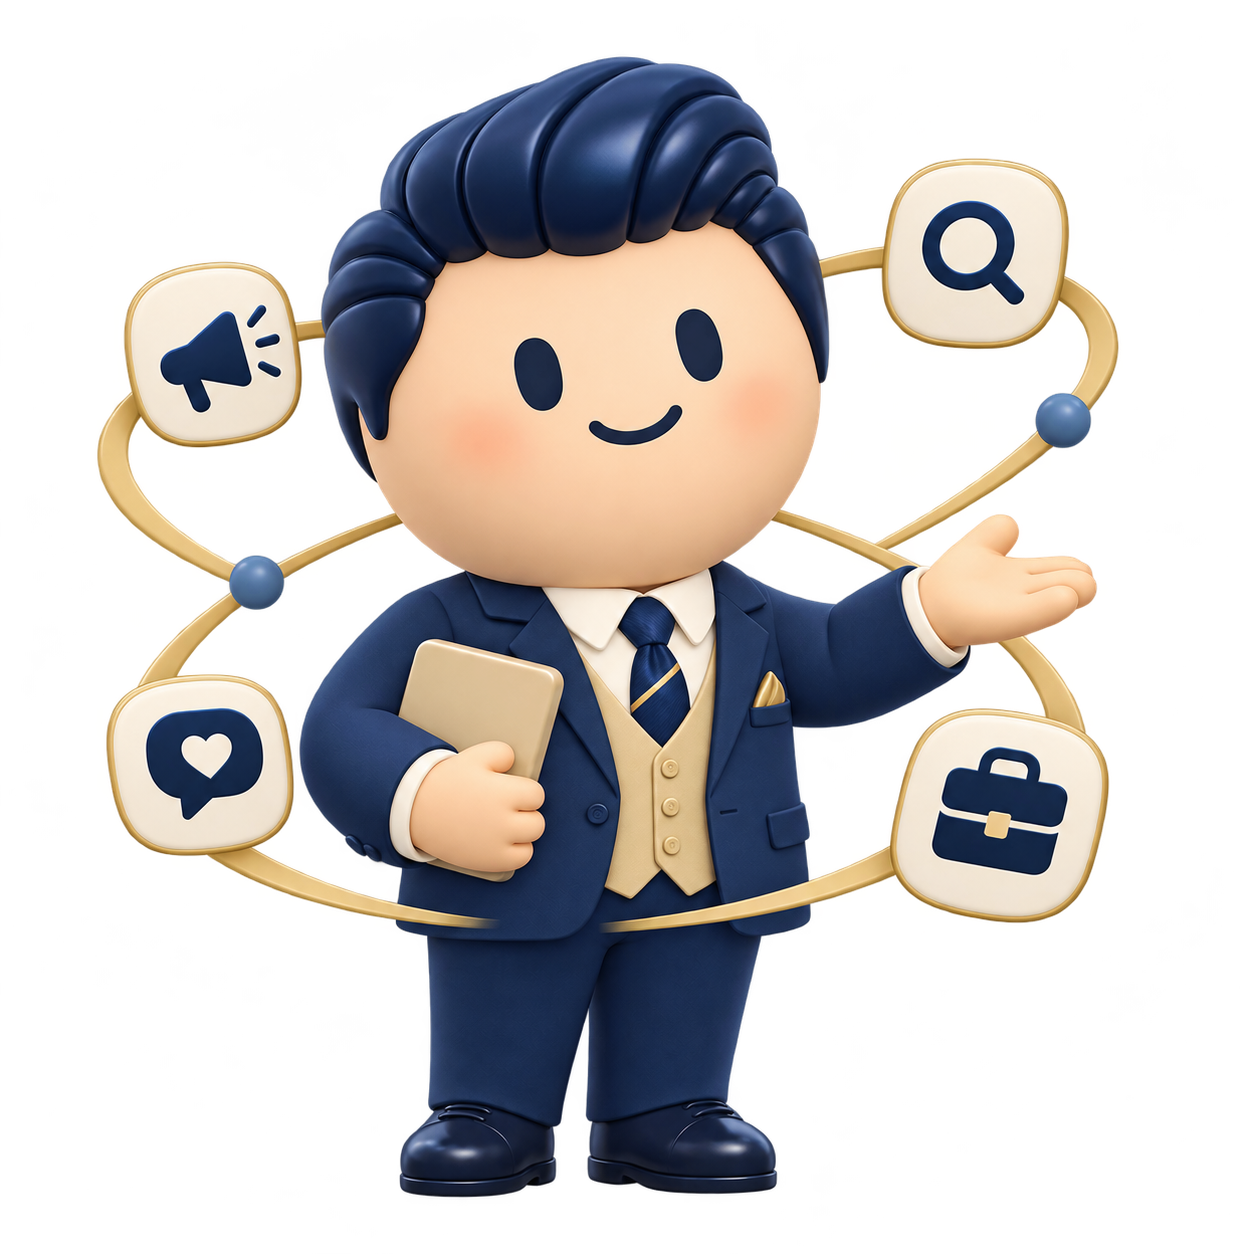
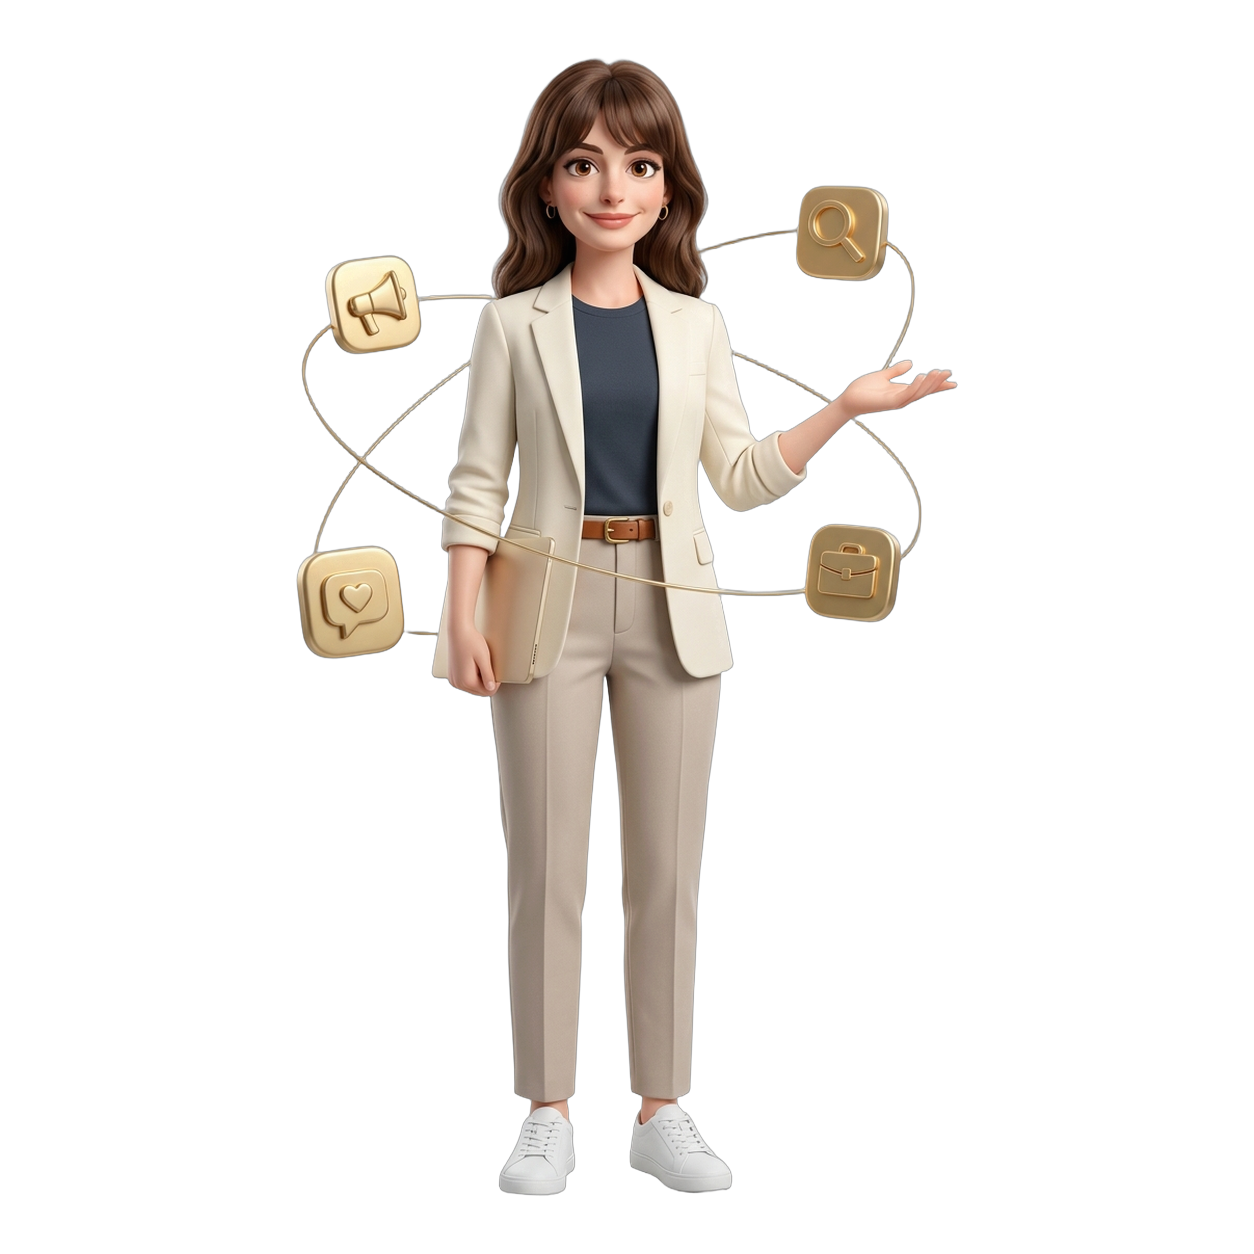
Update DANI mascot and world infographic to V2 smart-casual female persona

diff --git a/index.html b/index.html
@@ -19,7 +19,7 @@
   <meta property="og:title" content="DNA AI 슈트 | 개인 비서를 입다">
   <meta property="og:description" content="검색·생성형 AI·SNS를 하나의 고객 유입 흐름으로 연결하는 AI 마케팅·브랜딩 파트너입니다.">
   <meta property="og:url" content="https://alexchoi21.github.io/">
-  <meta property="og:image" content="https://alexchoi21.github.io/dani-world-infographic.png">
+  <meta property="og:image" content="https://alexchoi21.github.io/dani-world-infographic.png?v=20261118">
   <meta property="og:image:width" content="1364">
   <meta property="og:image:height" content="768">
   <meta property="og:image:alt" content="DNA AI 슈트 세계관 — 개인 비서를 입다, AI 비서 다니">
@@ -27,7 +27,7 @@
   <meta name="twitter:card" content="summary_large_image">
   <meta name="twitter:title" content="DNA AI 슈트 | 개인 비서를 입다">
   <meta name="twitter:description" content="AI 마케팅 자동화, 네이버 상위노출·챗GPT 추천(SEO/GEO), 기업용 AI 보안, 맞춤형 AI 플랫폼 및 AI SaaS 서비스 구축">
-  <meta name="twitter:image" content="https://alexchoi21.github.io/dani-world-infographic.png">
+  <meta name="twitter:image" content="https://alexchoi21.github.io/dani-world-infographic.png?v=20261118">
 
   <link rel="icon" type="image/svg+xml" href="favicon.svg">
   <link rel="preconnect" href="https://fonts.googleapis.com">
@@ -228,7 +228,7 @@
       </div>
       <div class="hero-art dani-stage">
         <div class="art-caption">YOUR WORK, BETTER CARED FOR<br><strong>AI SECRETARY DANI</strong></div>
-        <img class="dani-hero" src="dani-mascot.png" alt="검색, SNS, 고객 관리와 업무 자동화를 챙기는 친근한 AI 비서 다니">
+        <img class="dani-hero" src="dani-mascot.png?v=20261118" alt="검색, SNS, 고객 관리와 업무 자동화를 챙기는 친근한 AI 비서 다니">
         <span class="art-index">01&nbsp; / &nbsp;ALWAYS BY YOUR SIDE</span>
       </div>
     </section>
@@ -263,7 +263,7 @@
         <p>다니는 단순한 캐릭터가 아니라 DNA AI 슈트의 서비스 경험입니다. 사용자의 목표를 이해하고, 필요한 일을 정리하고, 실행 과정과 확인 가능한 결과를 알기 쉽게 보고합니다.</p>
       </div>
       <figure class="dani-world-figure">
-        <img src="dani-world-infographic.png" alt="사용자의 목표를 바탕으로 SNS 콘텐츠 운영, 검색 최적화, 생성형 AI 노출, 고객 관리와 업무 자동화를 수행하는 AI 비서 다니의 세계관">
+        <img src="dani-world-infographic.png?v=20261118" alt="사용자의 목표를 바탕으로 SNS 콘텐츠 운영, 검색 최적화, 생성형 AI 노출, 고객 관리와 업무 자동화를 수행하는 AI 비서 다니의 세계관">
         <figcaption>관찰 → 정리 → 실행 → 보고. 확인 가능한 결과는 기록하고 외부 플랫폼의 판단 영역은 구분합니다.</figcaption>
       </figure>
     </section>
